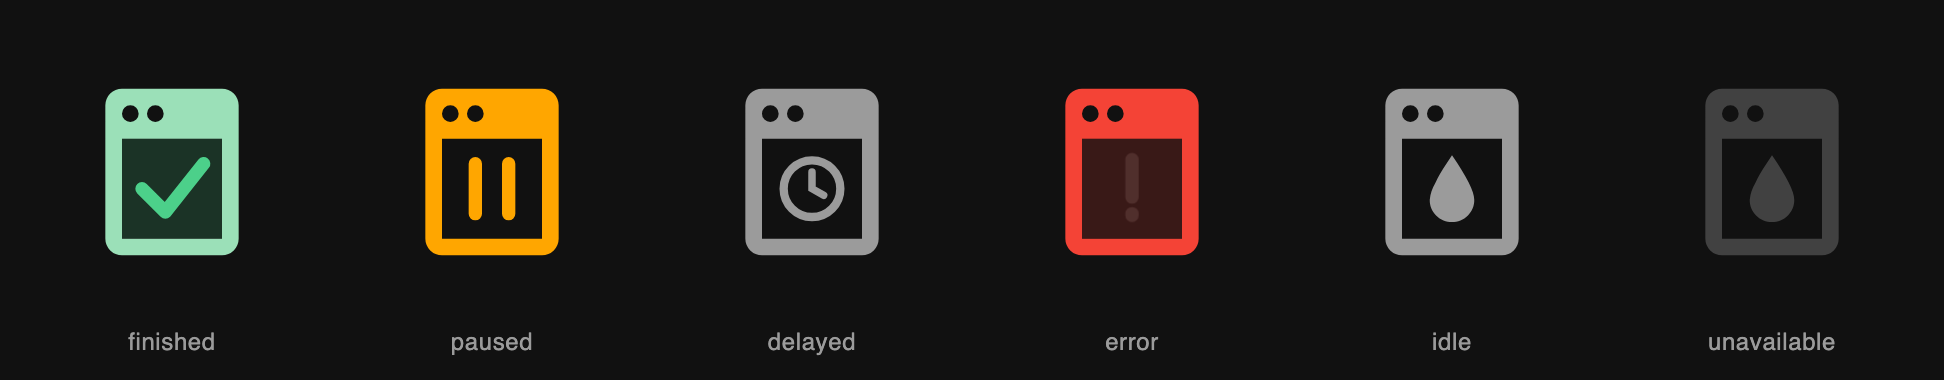
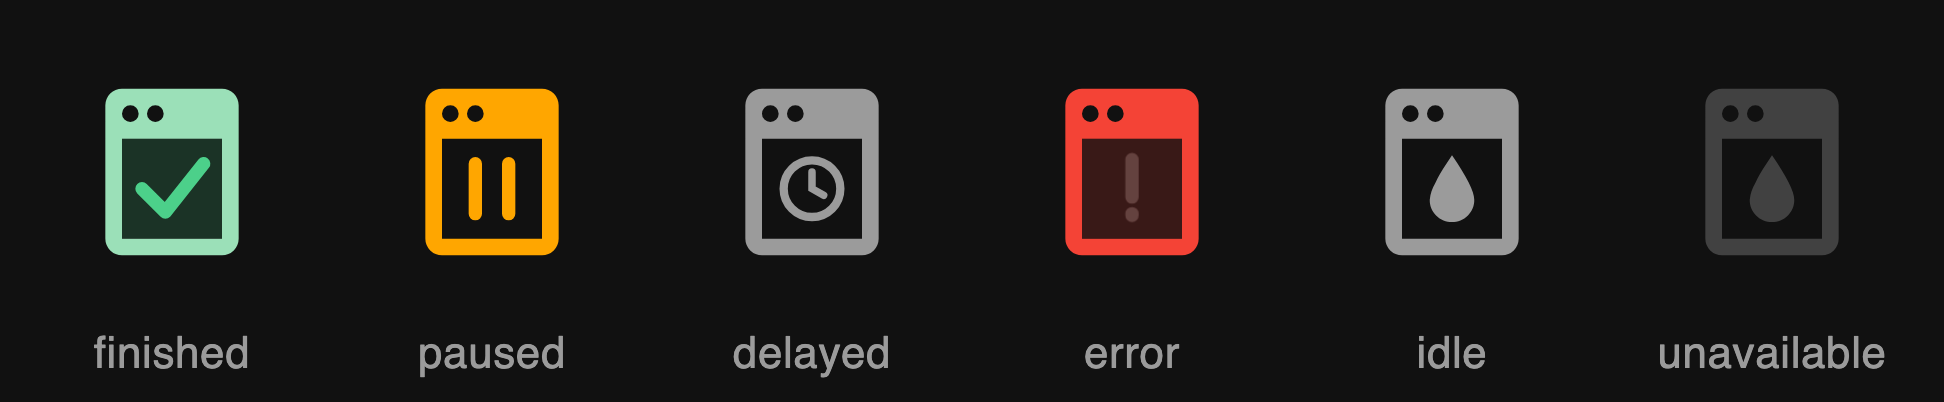
docs: larger state labels, full-width state sheets

diff --git a/test/gallery.html b/test/gallery.html
@@ -8,7 +8,7 @@ mdi-animated-card{display:block;height:148px}
 #one{width:148px;padding:0}
 #sheet{display:grid;grid-template-columns:repeat(6,148px);gap:14px 12px;padding:12px;width:max-content}
 .cell{display:flex;flex-direction:column;gap:4px}
-.cap{font-size:12px;color:#9b9b9b;text-align:center;letter-spacing:.3px}
+.cap{font-size:22px;color:#9b9b9b;text-align:center;letter-spacing:.3px}
 </style></head><body><div id="root"></div>
 <script type="module">
 import '../dist/mdi-animated-appliances.js';

diff --git a/README.md b/README.md
@@ -116,7 +116,7 @@ Every animation is a seamless loop. Expand an appliance; the name under each ico
 </table>
 
 <p><sub>Other states: docked · paused · needs attention · unavailable</sub></p>
-<img src="assets/gallery/vacuum-states.png" width="68%" alt="Robot vacuum states">
+<img src="assets/gallery/vacuum-states.png" width="100%" alt="Robot vacuum states">
 
 </details>
 
@@ -147,7 +147,7 @@ Every animation is a seamless loop. Expand an appliance; the name under each ico
 </table>
 
 <p><sub>Other states: docked · paused · needs attention · unavailable</sub></p>
-<img src="assets/gallery/mower-states.png" width="68%" alt="Robot mower states">
+<img src="assets/gallery/mower-states.png" width="100%" alt="Robot mower states">
 
 </details>
 
